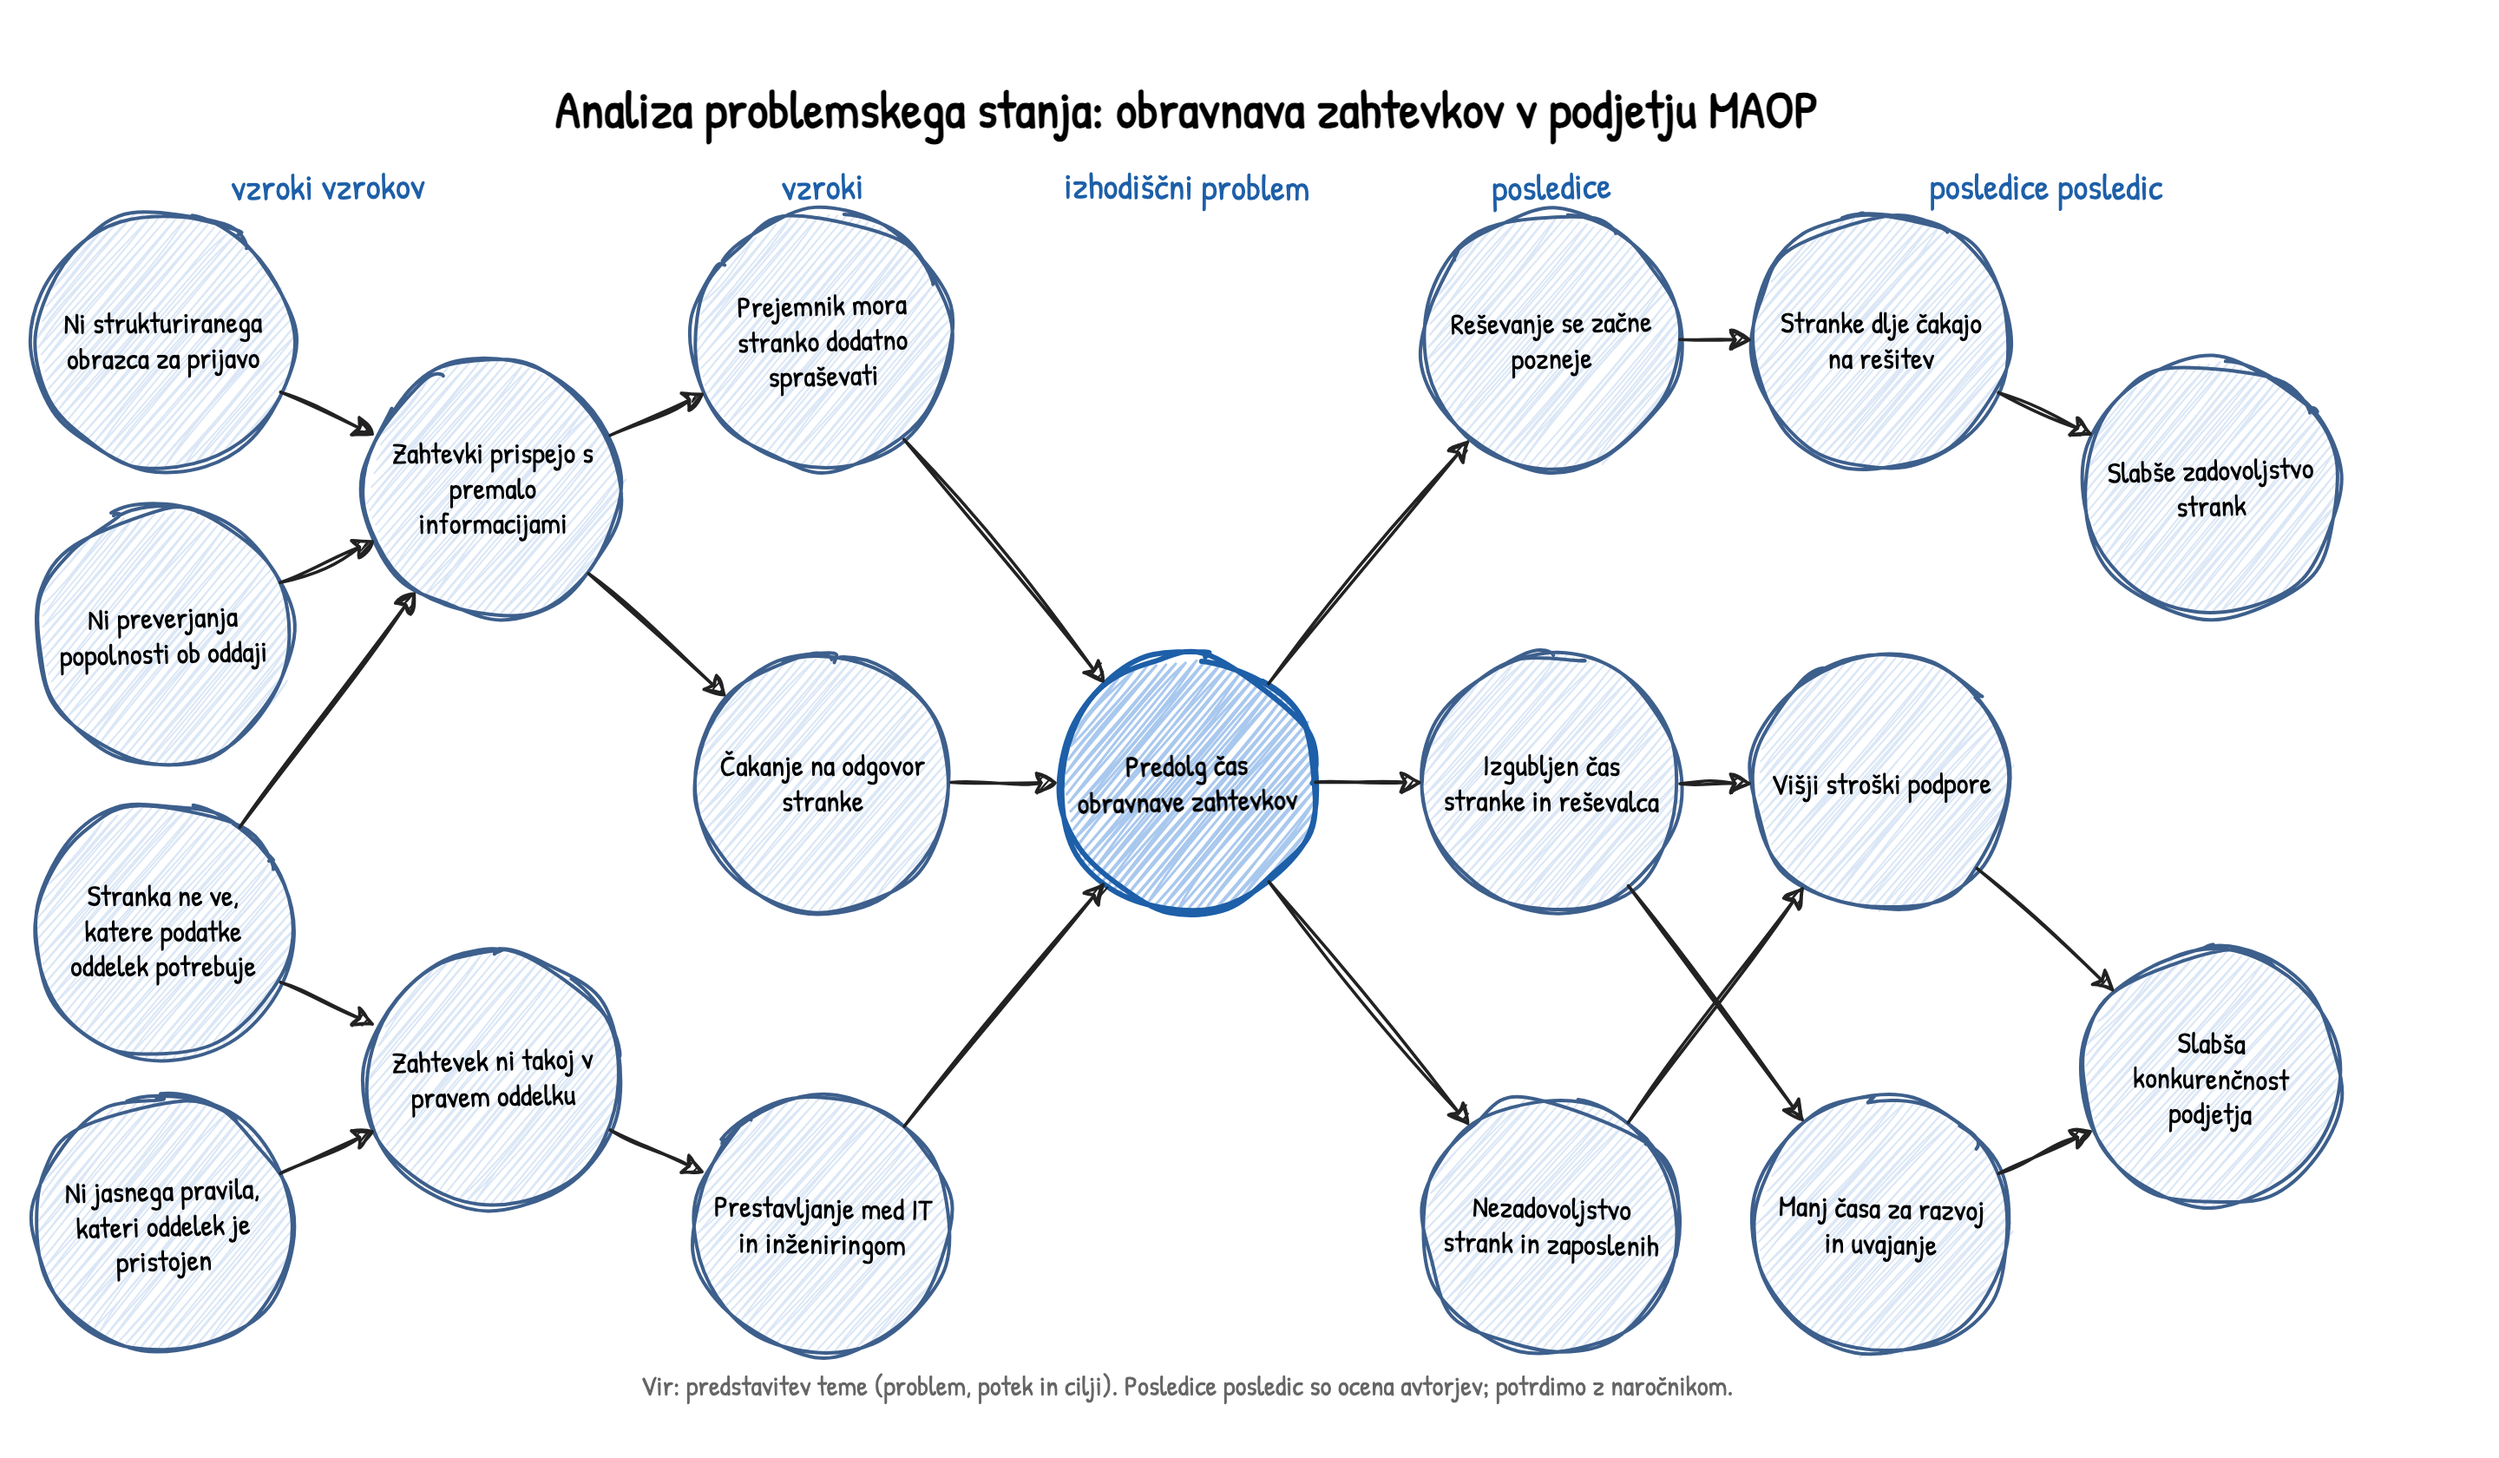
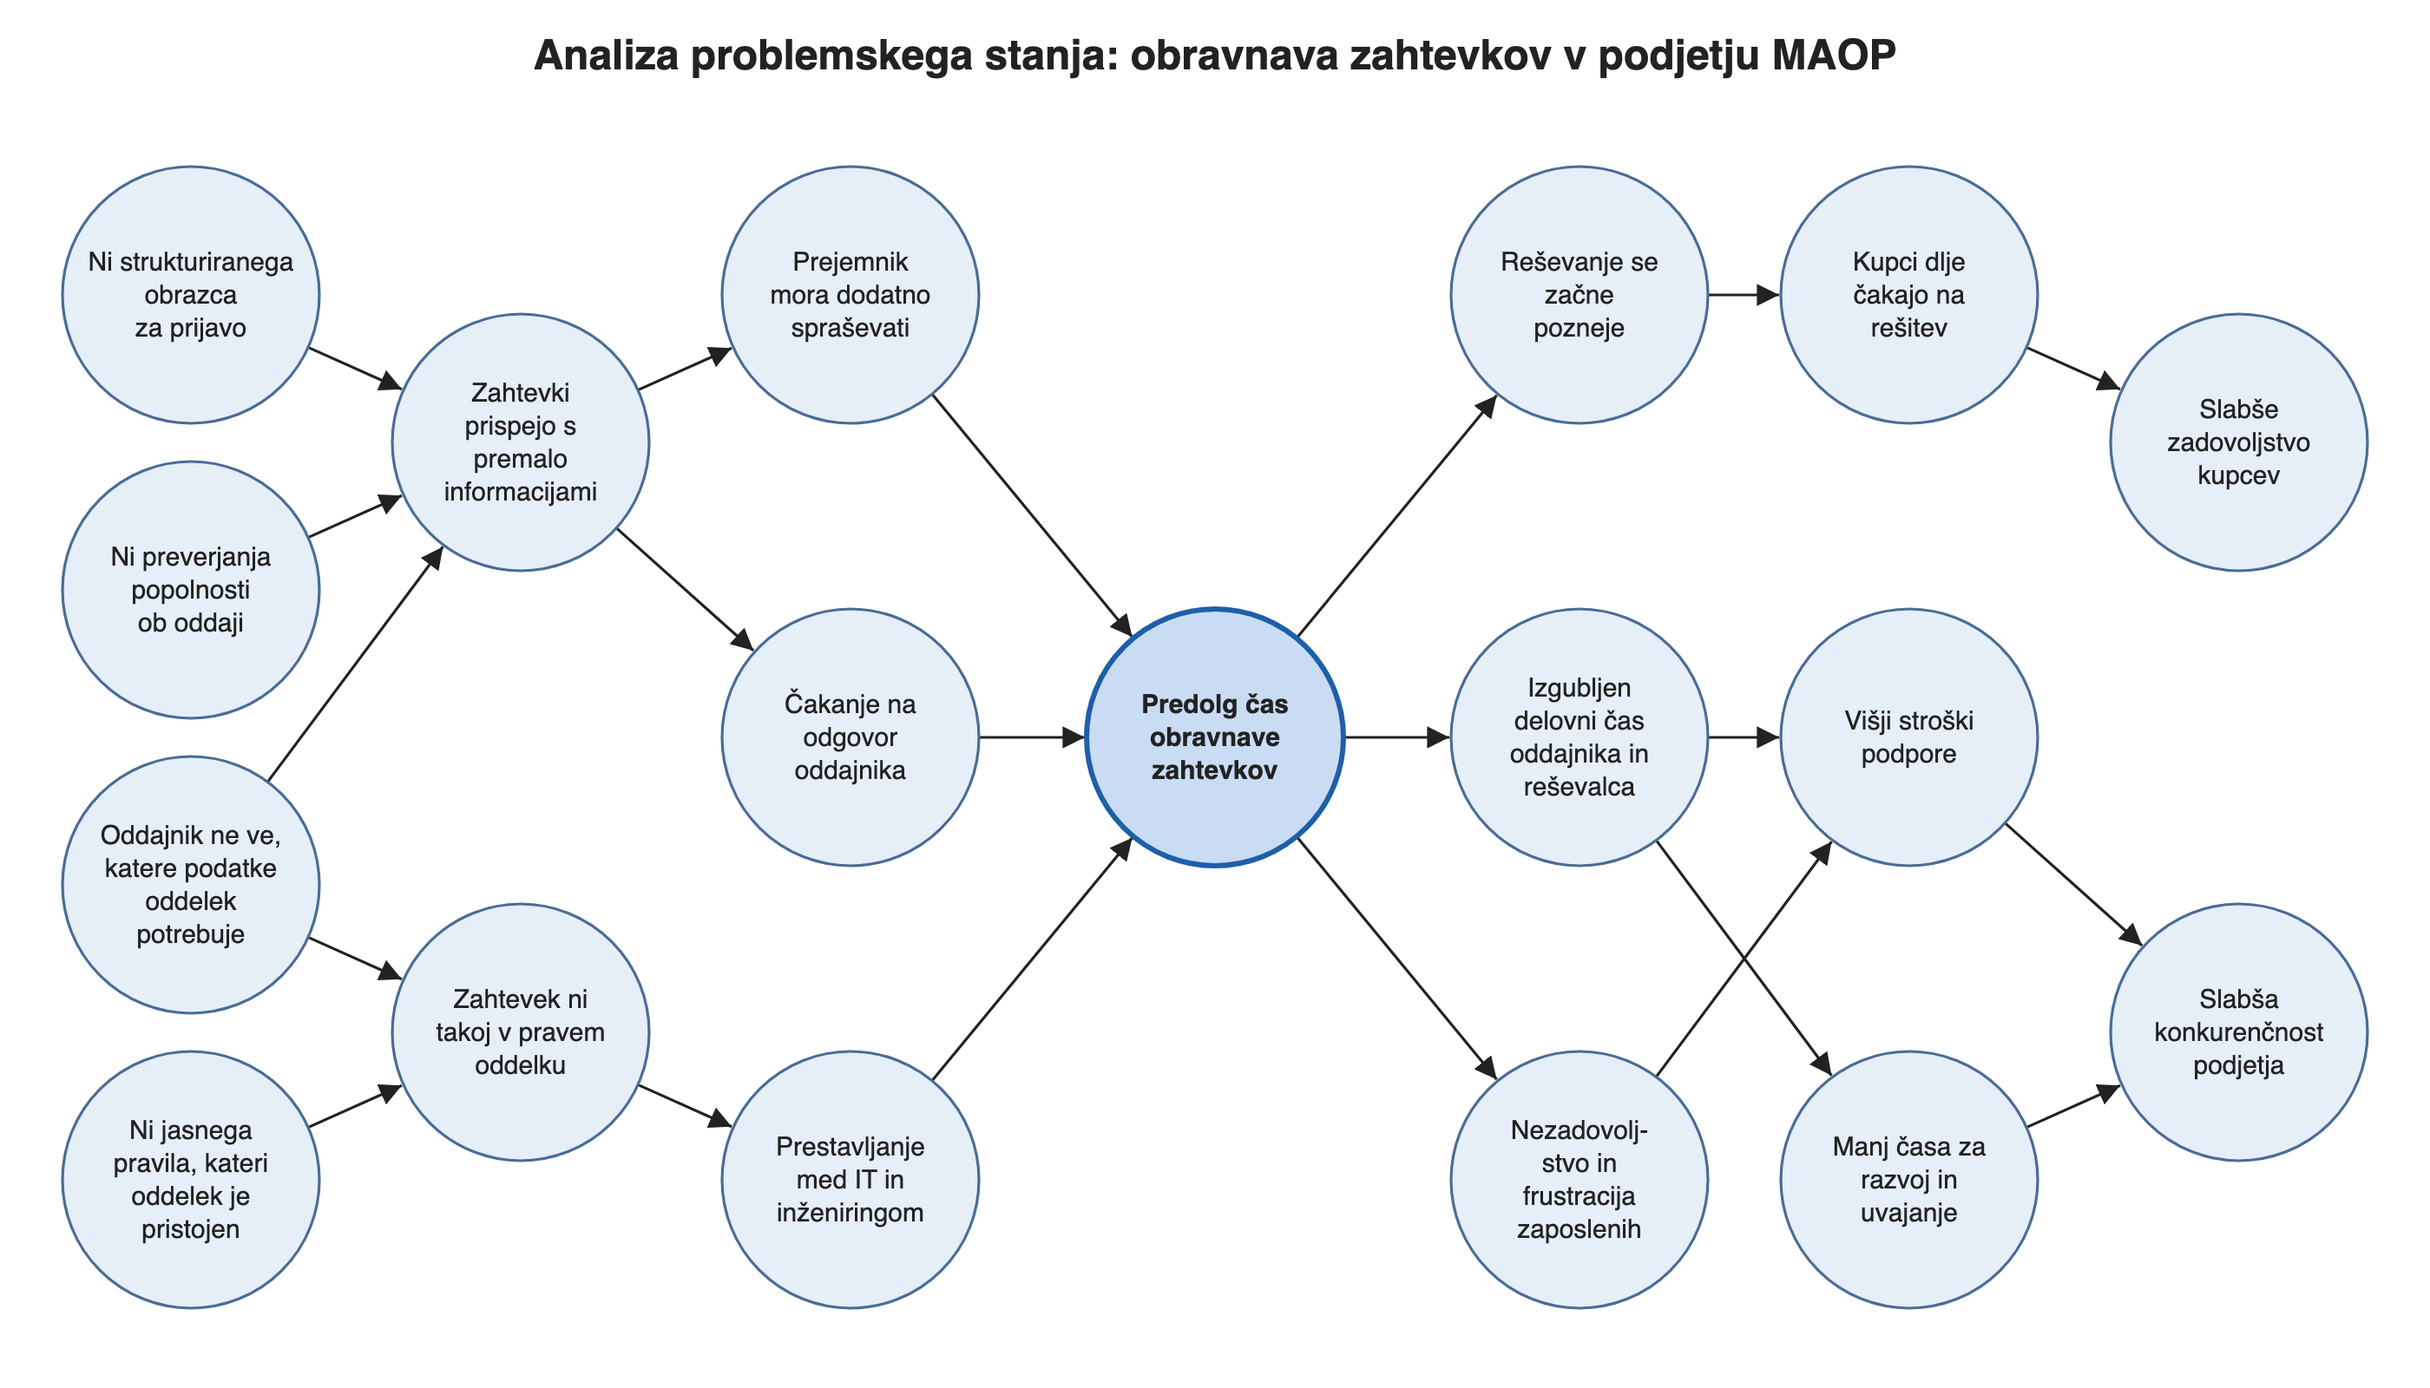
docs(analiza): drop source note and column labels from problem state diagram

diff --git a/docs/analiza problemskega stanja/prejšnja verzija/generiraj.py b/docs/analiza problemskega stanja/prejšnja verzija/generiraj.py
@@ -33,8 +33,6 @@ o=[f'<svg xmlns="http://www.w3.org/2000/svg" viewBox="0 0 {W} {H}" width="{W}" h
  '<defs><marker id="ar" viewBox="0 0 10 10" refX="10" refY="5" markerWidth="8" markerHeight="8" orient="auto"><path d="M0 0 L10 5 L0 10 Z" fill="#222"/></marker></defs>',
  f'<rect width="{W}" height="{H}" fill="#fff"/>',
  f'<text x="{W/2}" y="40" text-anchor="middle" font-size="24" font-weight="bold">Analiza problemskega stanja: obravnava zahtevkov v podjetju MAOP</text>']
-for x,lab in [((X[0]+X[1])/2,'vzroki vzrokov'),(X[2],'vzroki'),(X[3],'izhodiščni problem'),(X[4],'posledice'),((X[5]+X[6])/2,'posledice posledic')]:
-    o.append(f'<text x="{x}" y="82" text-anchor="middle" font-size="17" fill="#1d5fa8" font-weight="bold">{lab}</text>')
 def c(k): col,y,_=N[k]; return X[col],y
 for a,b in E:
     (x1,y1),(x2,y2)=c(a),c(b); d=math.hypot(x2-x1,y2-y1); ux,uy=(x2-x1)/d,(y2-y1)/d
@@ -45,6 +43,5 @@ for k,(col,y,lines) in N.items():
     y0=y-(len(lines)-1)*9.5+5
     for i,l in enumerate(lines):
         o.append(f'<text x="{x}" y="{y0+i*19:.1f}" text-anchor="middle"{" font-weight=\"bold\"" if centre else ""}>{l}</text>')
-o.append(f'<text x="{W/2}" y="{H-20}" text-anchor="middle" font-size="14" fill="#555">Vir: predstavitev teme (problem, potek in cilji). Posledice posledic so ocena avtorjev; potrdimo z naročnikom.</text>')
 o.append('</svg>')
 open(sys.argv[1],'w').write('\n'.join(o))
